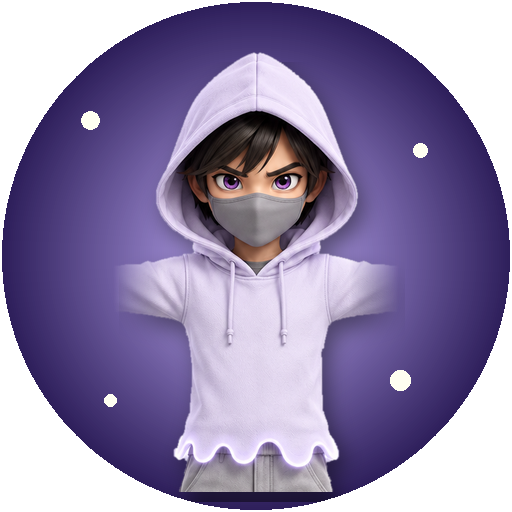
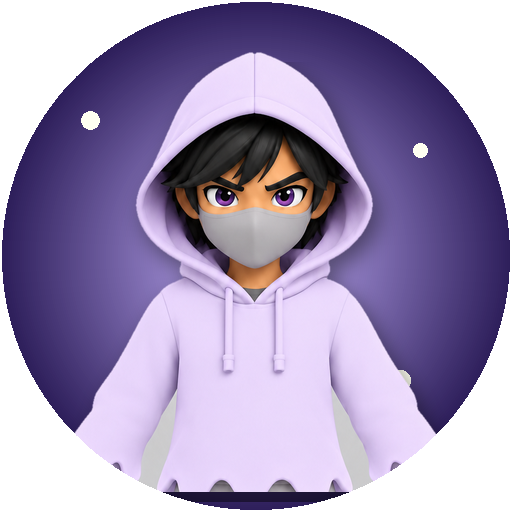
Ghostly Shadow's pass picture remade from his toon A-pose picture (was the old T-pose with the arms faded off)

Changed region(s): [[0.1562, 0.0938, 0.8438, 0.9688], [0.5938, 0.1562, 0.625, 0.1875], [0.5625, 0.125, 0.5938, 0.1562]]

diff --git a/tools/make_pass_icons.py b/tools/make_pass_icons.py
@@ -67,15 +67,18 @@ def cutout(im):
 
 
 for folder, name, inner, outer in SKINS:
-    src = Image.open(os.path.join(SRC, folder, 'a-pose-front.png')).convert('RGB')
+    # 10 Oct: the toon picture (A-pose) where there is one - the old
+    # Ghostly Shadow picture was a T-pose (arms cut off at the sides)
+    toon = os.path.join(SRC, folder, 'front-toon.png')
+    src = Image.open(toon if os.path.exists(toon) and folder == 'ghostly-shadow' else os.path.join(SRC, folder, 'a-pose-front.png')).convert('RGB')
     W, H = src.size
     # head and shoulders: the top half of the picture, the middle of it
     # a T-pose (arms straight out) is cropped closer so the figure stays big
-    side = 0.3 if folder == 'ghostly-shadow' else 0.18
+    side = 0.18
     bust = cutout(src.crop((int(W * side), 0, int(W * (1 - side)), int(H * 0.5))))
     bb = bust.getchannel('A').point(lambda v: 255 if v > 40 else 0).getbbox()
     bust = bust.crop((bb[0], bb[1], bb[2], bust.height))
-    if folder == 'ghostly-shadow':
+    if False:  # (was the T-pose Ghostly Shadow)
         # arms cut at the sides: fade them out instead of a hard edge
         a = bust.getchannel('A')
         ramp = Image.new('L', bust.size, 255)
